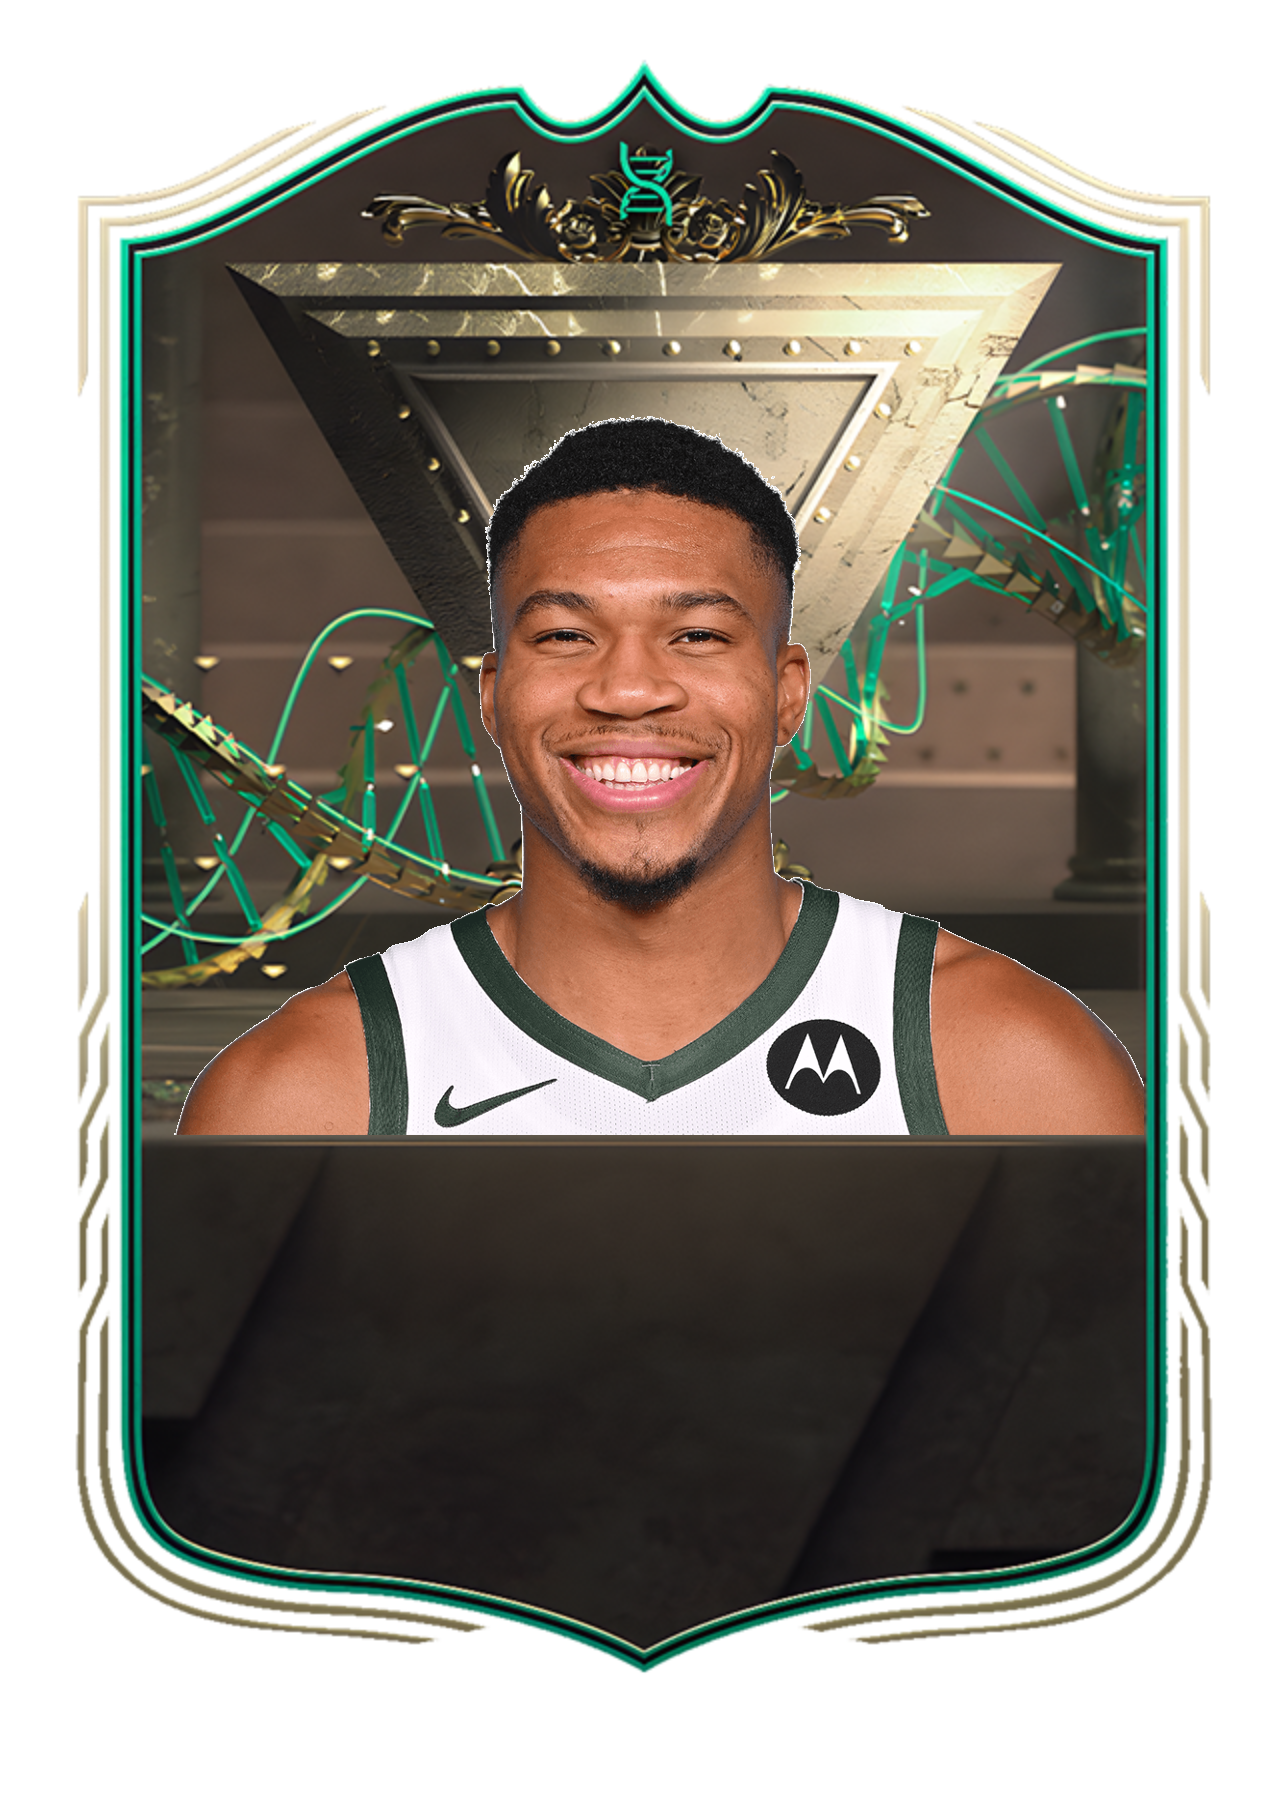
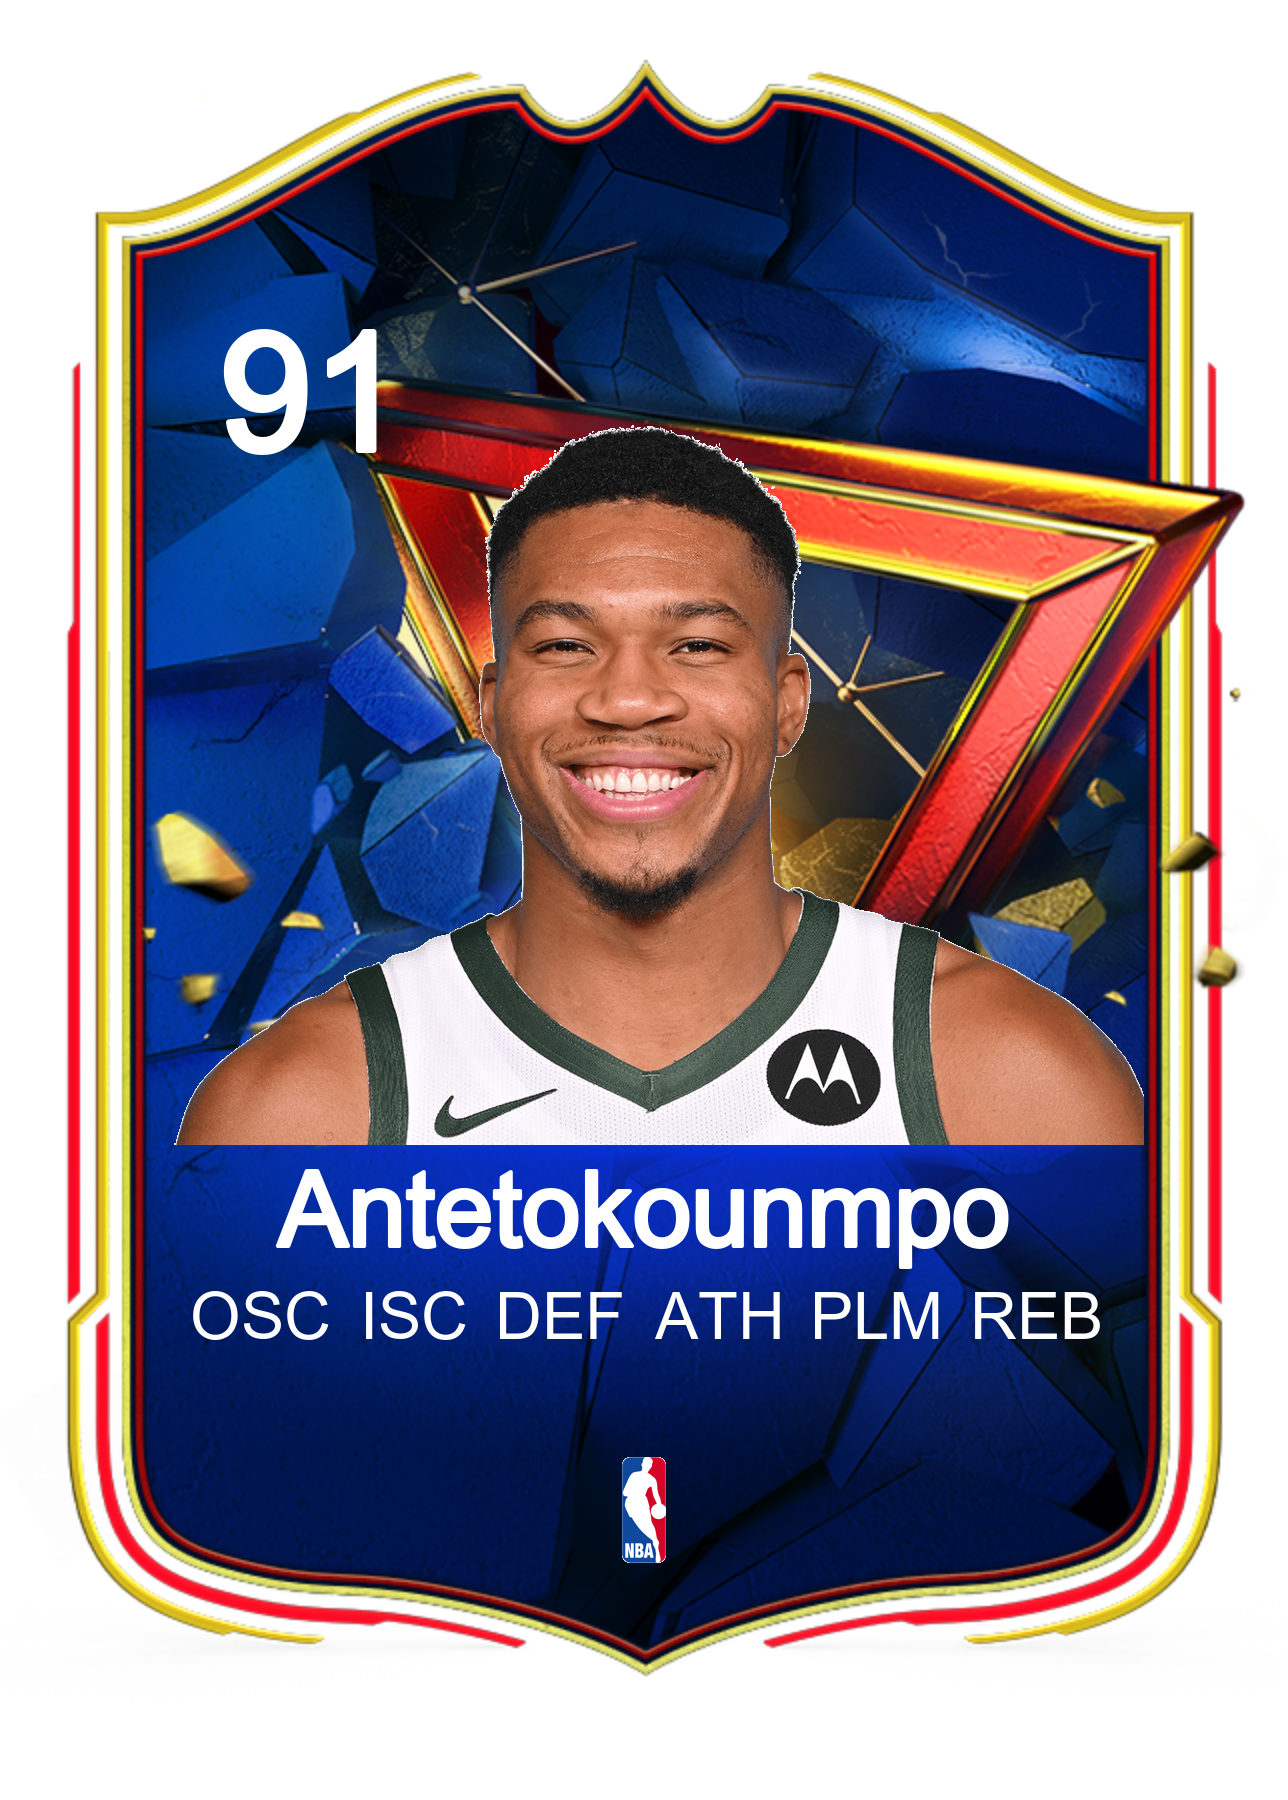
continuando a organizar a função e gerando algumas imagens

diff --git a/functions/make_cards.py b/functions/make_cards.py
@@ -295,7 +295,7 @@ def make_cards(index:int, text_color_rgb:tuple, card_version:str) -> None:
     row_list = dataframe.loc[index, :].values.flatten().tolist()
 
     player_full_name = f"{row_list[2]} {row_list[1]}"
-    if len(player_full_name) >= 15:
+    if len(player_full_name) >= 20:
         player_full_name = row_list[1]
 
     player_id = row_list[0]
@@ -303,19 +303,51 @@ def make_cards(index:int, text_color_rgb:tuple, card_version:str) -> None:
     image_card = Image.open(f".\design\cards_images\{card_version}.png")
     image_player = Image.open(f".\design\players_images\\{player_id}.png").convert("RGBA")
     image_league = Image.open(".\design\cards_images\logo-nba-4096.png").convert("RGBA")
+    card_draw = ImageDraw.Draw(image_card)
 
     #SET_CARD
     largura_carta, altura_carta = image_card.size
+
+    #SET_NAME
+    text_font = ImageFont.truetype("arial.ttf", 105)
+    largura_texto, altura_texto = card_draw.textsize(player_full_name, font=text_font)
+    card_draw.text(((largura_carta - largura_texto)/2, 1150), player_full_name, fill=text_color, font=text_font, stroke_width=2)
 
     #SET_PLAYER
     image_player = image_player.resize((1000, 735))
     player_array = np.array(image_player)
     player_mask = (player_array[:, :, 3] > 0)
-    image_card.paste(image_player, (144, 400), Image.fromarray(player_mask))
+    image_card.paste(image_player, (144, 410), Image.fromarray(player_mask))
 
+    #SET_OVERALL
+    player_overall = str(row_list[6] - 5)
+    text_font = ImageFont.truetype("arial.ttf", 165)
+    card_draw.text((220, 300), player_overall, fill=text_color, font=text_font, stroke_width=3)
+
+    #SET_NBA_LOGO
+    image_league = image_league.resize((120, 120))
+    league_array = np.array(image_league)
+    league_mask = (league_array[:, :, 3] > 0)
+    image_card.paste(image_league, (584, 1450), Image.fromarray(league_mask))
+
+    #SET_STATS
+    text_01 = "OSC"
+    text_02 = "ISC"
+    text_03 = "DEF"
+    text_04 = "ATH"
+    text_05 = "PLM"
+    text_06 = "REB"
+    text_font = ImageFont.truetype("arial.ttf", 65)
+    card_draw.text((190, 1280), text_01, fill=text_color, font=text_font, stroke_width=0)
+    card_draw.text((360, 1280), text_02, fill=text_color, font=text_font, stroke_width=0)
+    card_draw.text((495, 1280), text_03, fill=text_color, font=text_font, stroke_width=0)
+    card_draw.text((655, 1280), text_04, fill=text_color, font=text_font, stroke_width=0)
+    card_draw.text((810, 1280), text_05, fill=text_color, font=text_font, stroke_width=0)
+    card_draw.text((970, 1280), text_06, fill=text_color, font=text_font, stroke_width=0)
 
     image_card.save(f".\design\\test_images\card_{index}.png")
     return None
 
-for i in range(1, 11):
-    make_cards(i, (64, 52, 30), "86_90")
+if __name__ == "__main__":
+    for i in range(0, 20):
+        make_cards(i, (255, 255, 255), "81_85")
